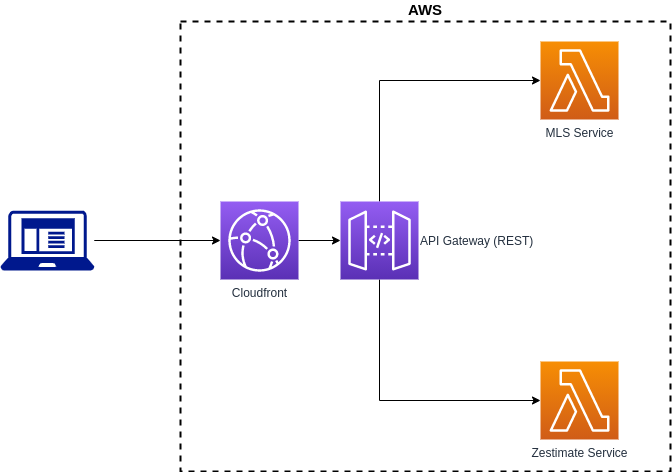
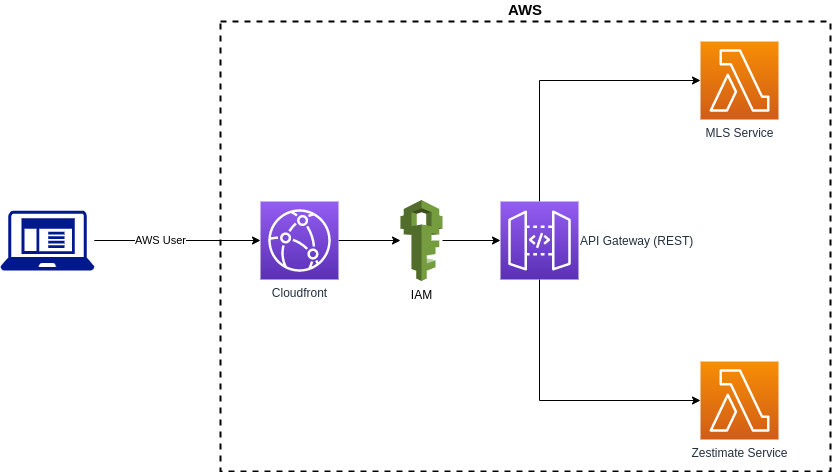
Update documentation

diff --git a/README.md b/README.md
@@ -8,6 +8,14 @@ A simple client app written using React framework to help find investment proper
 
 ![Design](./assets/images/architecture.png)
 
+## Security
+
+This client app authenticates with API gateway using IAM, an IAM user has been created for this app and associated to a policy that allows for invoking APIs. The client generates signed request, and adds the `Authorization` header.
+
+## Usage
+
+Enter city and state to search for properties.
+
 ## Platform
 
-Hosted on heroku: https://house-investing-app.herokuapp.com/
+Hosted on heroku: https://houseapp-client.herokuapp.com/
